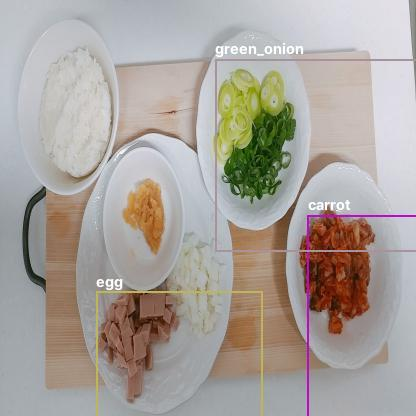
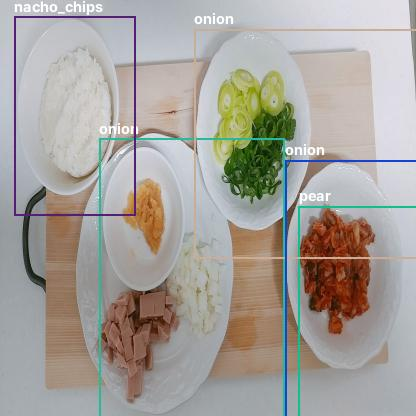
add detect_ingredients

Changed region(s): [[0.0312, 0.0, 1.0, 1.0], [0.4688, 0.0312, 0.5625, 0.0625]]

diff --git a/detect_ingredients.py b/detect_ingredients.py
@@ -1,0 +1,50 @@
+import os
+import torch
+import json
+from PIL import Image
+from transformers import DetrImageProcessor, DetrForObjectDetection
+from utils import predict_with_input
+
+HOME = os.getcwd()
+INPUT_PATH = os.path.join(os.getcwd(), "input_image")
+DEVICE = torch.device("cuda" if torch.cuda.is_available() else "cpu")
+
+# Client로부터 이미지를 받은 후 해당 함수 실행
+# Arguments : Object Detection을 수행할 이미지의 이름
+# Outputs : bounding box가 그려진 이미지, 식재료 리스트
+#
+# -- Output Naming Convention --
+# bbox가 그려진 이미지 : bbox_(image_name).jpg
+# 식재료 리스트 : ingredients_(image_name).json
+# -- 이때, image_name은 기존 이미지의 확장자(jpg, png 등)를 제외한 부분입니다 --
+def detect_ingredients(image_name):
+    model = DetrForObjectDetection.from_pretrained("facebook/detr-resnet-50", revision="no_timm").to(DEVICE)
+    processor = DetrImageProcessor.from_pretrained("facebook/detr-resnet-50", revision="no_timm")
+
+    # id2label 읽기
+    os.chdir("utils")
+    with open("id2label.json", 'r') as json_file:
+        id2label = json.load(json_file)
+        id2label = {int(key): value for key, value in id2label.items()}
+    os.chdir(HOME)
+
+    predict = predict_with_input.InputPrediction(
+        model=model, 
+        processor=processor, 
+        id2label=id2label,
+        device=DEVICE
+    )
+
+    # input image 가져오기
+    try:
+        input_image = Image.open(os.path.join(INPUT_PATH, image_name))
+    except Exception as e:
+        print(f"ERROR! : {e}")
+        return
+
+    # input image에 대한 prediction
+    prediction = predict.predict(input_image, threshold=0.2)
+
+    # prediction 시각화 & 식재료 set 저장
+    predict.draw_bbox(input_image, image_name, prediction)
+    predict.save_ingredients_set(prediction, image_name)

diff --git a/main.py b/main.py
@@ -98,10 +98,12 @@ def main(args):
 
     elif args.exec_mode == "use_model":
         print("Prediction with input images")
+        id2label = {k: v["name"] for k,v in train_dataset.coco.cats.items()}
+
         predict = predict_with_input.InputPrediction(
             model=model, 
             processor=processor, 
-            coco=train_dataset.coco,
+            id2label=id2label,
             device=DEVICE
         )
 
@@ -113,7 +115,7 @@ def main(args):
             return
 
         # input image에 대한 prediction
-        prediction = predict.predict(input_image, threshold=0.05)
+        prediction = predict.predict(input_image, threshold=0.2)
 
         # prediction 시각화 & 식재료 set 저장
         predict.draw_bbox(input_image, image_name, prediction)

diff --git a/utils/predict_with_input.py b/utils/predict_with_input.py
@@ -8,11 +8,11 @@ INPUT_PATH = os.path.join(os.getcwd(), "input_image")
 OUTPUT_PATH = os.path.join(os.getcwd(), "outputs")
 
 class InputPrediction():
-    def __init__(self, model, processor, coco, device):
+    def __init__(self, model, processor, id2label, device):
         super(InputPrediction, self).__init__()
         self.model = model
         self.processor = processor
-        self.id2label = {k: v["name"] for k,v in coco.cats.items()}
+        self.id2label = id2label
         self.device = device
         self.font = ImageFont.truetype(os.path.join("fonts", "Pretendard-Bold.otf"), 15)
 

diff --git a/utils/draw_image.py b/utils/draw_image.py
@@ -61,7 +61,7 @@ class DrawImage():
         outputs = self.model(**inputs)
 
         target_sizes = torch.tensor([image.size[::-1]])
-        results = self.processor.post_process_object_detection(outputs, target_sizes=target_sizes, threshold=0.05)[0]
+        results = self.processor.post_process_object_detection(outputs, target_sizes=target_sizes, threshold=0.2)[0]
 
         id2label = {k: v["name"] for k,v in self.coco.cats.items()}
         draw = ImageDraw.Draw(image)
